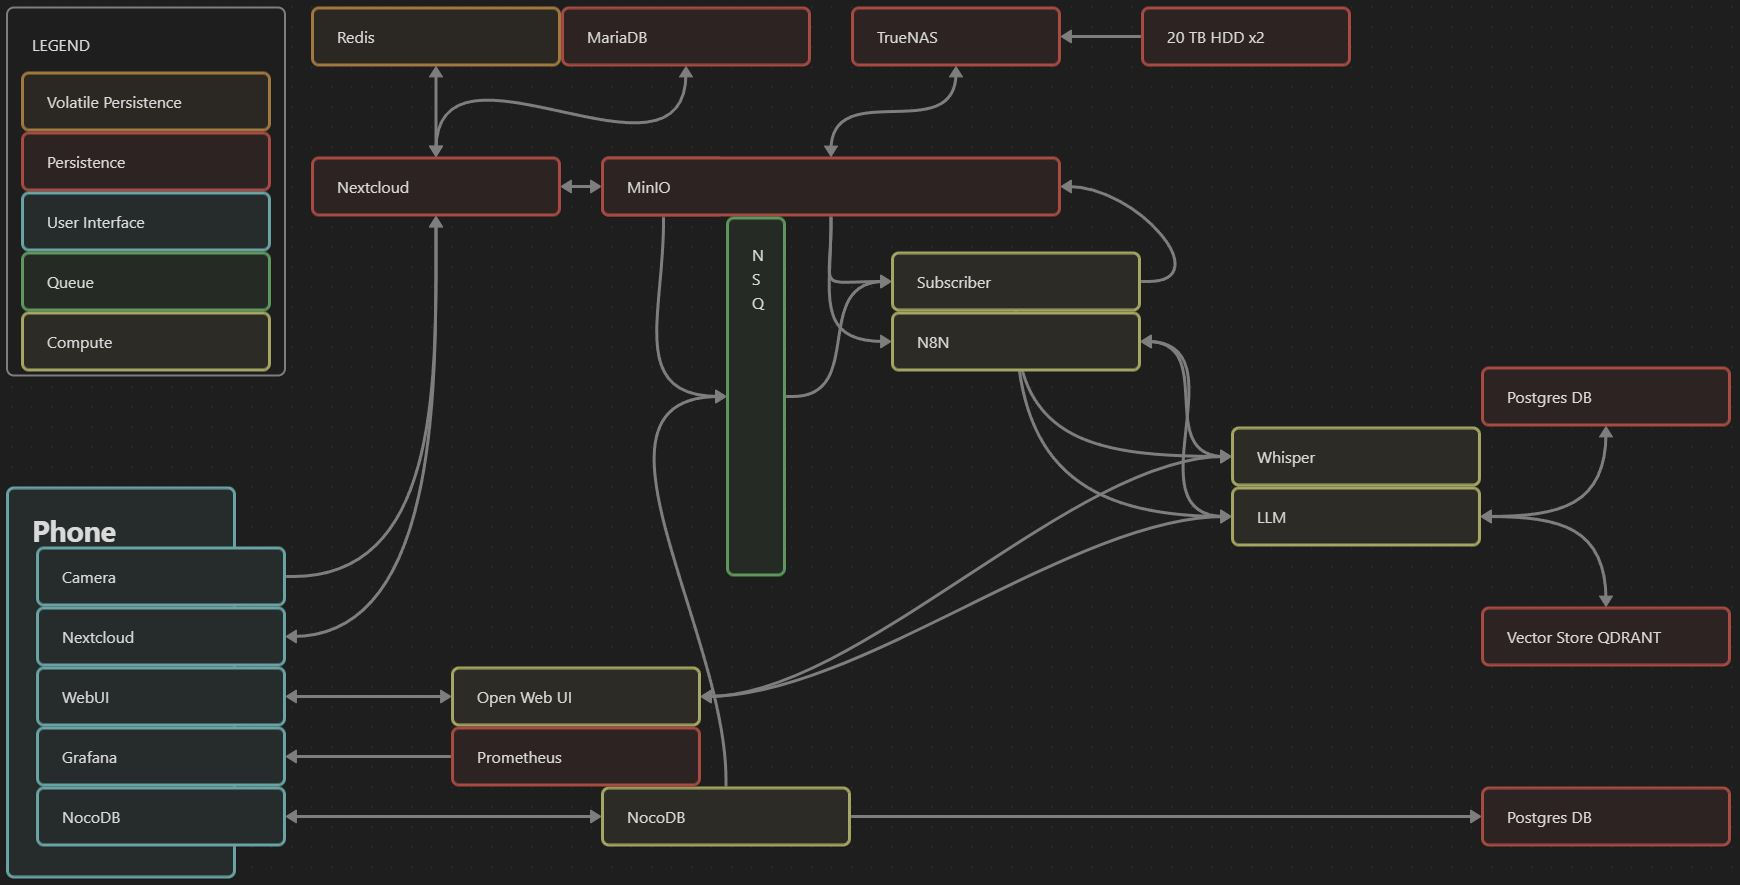
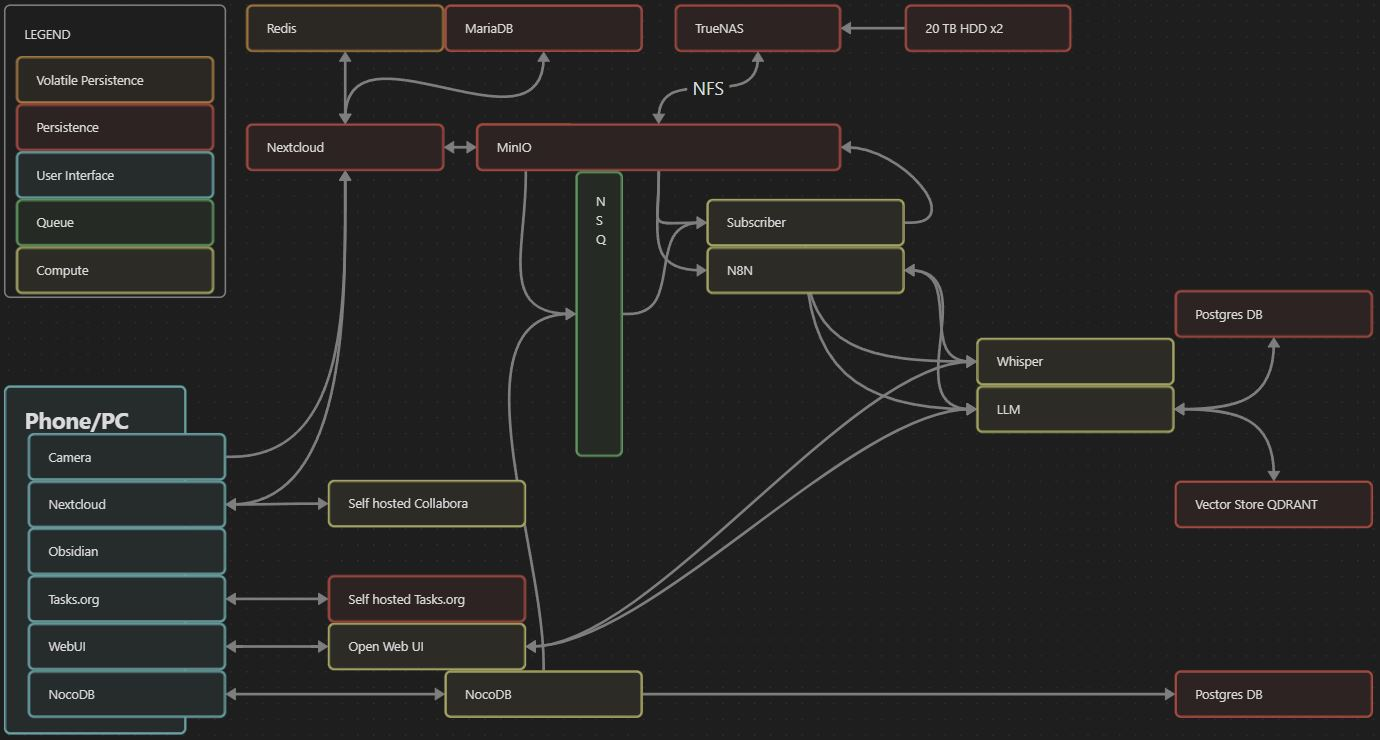
Add collabora

Changed region(s): [[0.0, 0.0, 0.9971, 0.8081], [0.0, 0.4351, 0.9971, 0.9946], [0.4362, 0.8081, 0.4674, 0.8392]]

diff --git a/Nextcloud/README.md b/Nextcloud/README.md
@@ -29,3 +29,33 @@ Add domains to the list in `nextcloud_data/config/config.php`
   - Check "Enable Path Style"
   - Copy minio_access_key
   - Copy minio_secret_key
+
+### Auto sync from phone
+- Turn on auto upload
+- Configure the target path to be in S3 (if you like)
+#### Non-audio/video file sync
+December 2024 Google revoked "All file access" permissions for the Nextcloud app.
+- Download FolderSync (or use F-Droid?)
+- Add Nextcloud credentials
+- Add folder sync
+- Setup schedule
+- Turn on instant upload
+
+### Task app from Nextcloud
+Doesn't support recurring tasks. Will use task.org solution instead.
+
+### Cookbook app from Nextcloud
+Testing this one out, and sharing the folder to hopefully keep recipes in sync with multiple people.
+
+## Maintenance
+- Enter maintenance mode: `docker exec -u www-data nextcloud php occ maintenance:mode --on`
+- Exit: `docker exec -u www-data nextcloud php occ maintenance:mode --off`
+
+Still working on scheduling maintenance automatically.
+
+### Restart servers
+Order you'd likely want to boot up:
+- TrueNAS
+- MinIO
+- Nextcloud
+- Rest can start before/after, doesn't matter

diff --git a/README.md b/README.md
@@ -17,12 +17,13 @@ Personal knowledge management, and automations.
 - [Redis](./Redis/README.md)
 - [Nextcloud](./Nextcloud/README.md)
 
-### Editors
+### Knowledge interfaces
 - [Collabora](./Collabora/README.md)
 - [Obsidian](./Obsidian/README.md)
+- [Tasks](./Tasks/README.md)
 
 ### AI
-- [ollama](./ollama/README.md)
+- [Ollama](./Ollama/README.md)
 - [Whisper](./Whisper/README.md)
 - [Speaches](./Speaches/README.md)
 - [OpenWebUI](./OpenWebUI/README.md)
@@ -33,7 +34,7 @@ Personal knowledge management, and automations.
 
 ### Automation workflows
 - [Flowise](./Flowise/README.md)
-- [n8n](./n8n/README.md)
+- [N8N](./N8N/README.md)
 - [NocoDB](./NocoDB/README.md)
 
 ### Unused options

diff --git a/Collabora/README.md b/Collabora/README.md
@@ -1,2 +1,15 @@
 # Collabora
 Live collaborative editor like you would get with google docs.
+
+## Setup with Nextcloud
+- In Nextcloud
+- Apps
+- Search for Nextcloud Office (NOT Collabora Online - Built-in CODE Server)
+- Install it
+- Go to settings
+- Set "Use your own server"
+- Value: `https://collabora.example.com`
+
+### Ensure trusted proxies covers Collabora
+- Nextcloud trusted proxies should cover an IP range EG: ..0.0/12
+- Collabora should have a static IP of ..0.8

diff --git a/Caddy/README.md b/Caddy/README.md
@@ -3,3 +3,6 @@ Reverse proxy
 
 ## Why?
 So you can access everything hosted on different machines and ports, through a single externally accessible port (like one exposed with Ngrok).
+
+### Costly lesson
+Ports exposed to the docker host by using port: 8421:80 binds the host port to the docker port at :80 but, if another container within the docker network is accessing that container, it will still be :80 and not :8421.

diff --git a/N8N/README.md b/N8N/README.md
@@ -1,4 +1,4 @@
-# n8n
+# N8N
 - Open the web interface [REFERENCE](./docker-compose.yml)
 - Load workflows from the workflows directory
 - Create workflows

diff --git a/Tasks/README.md b/Tasks/README.md
@@ -1,0 +1,2 @@
+# Tasks
+https://tasks.org/
